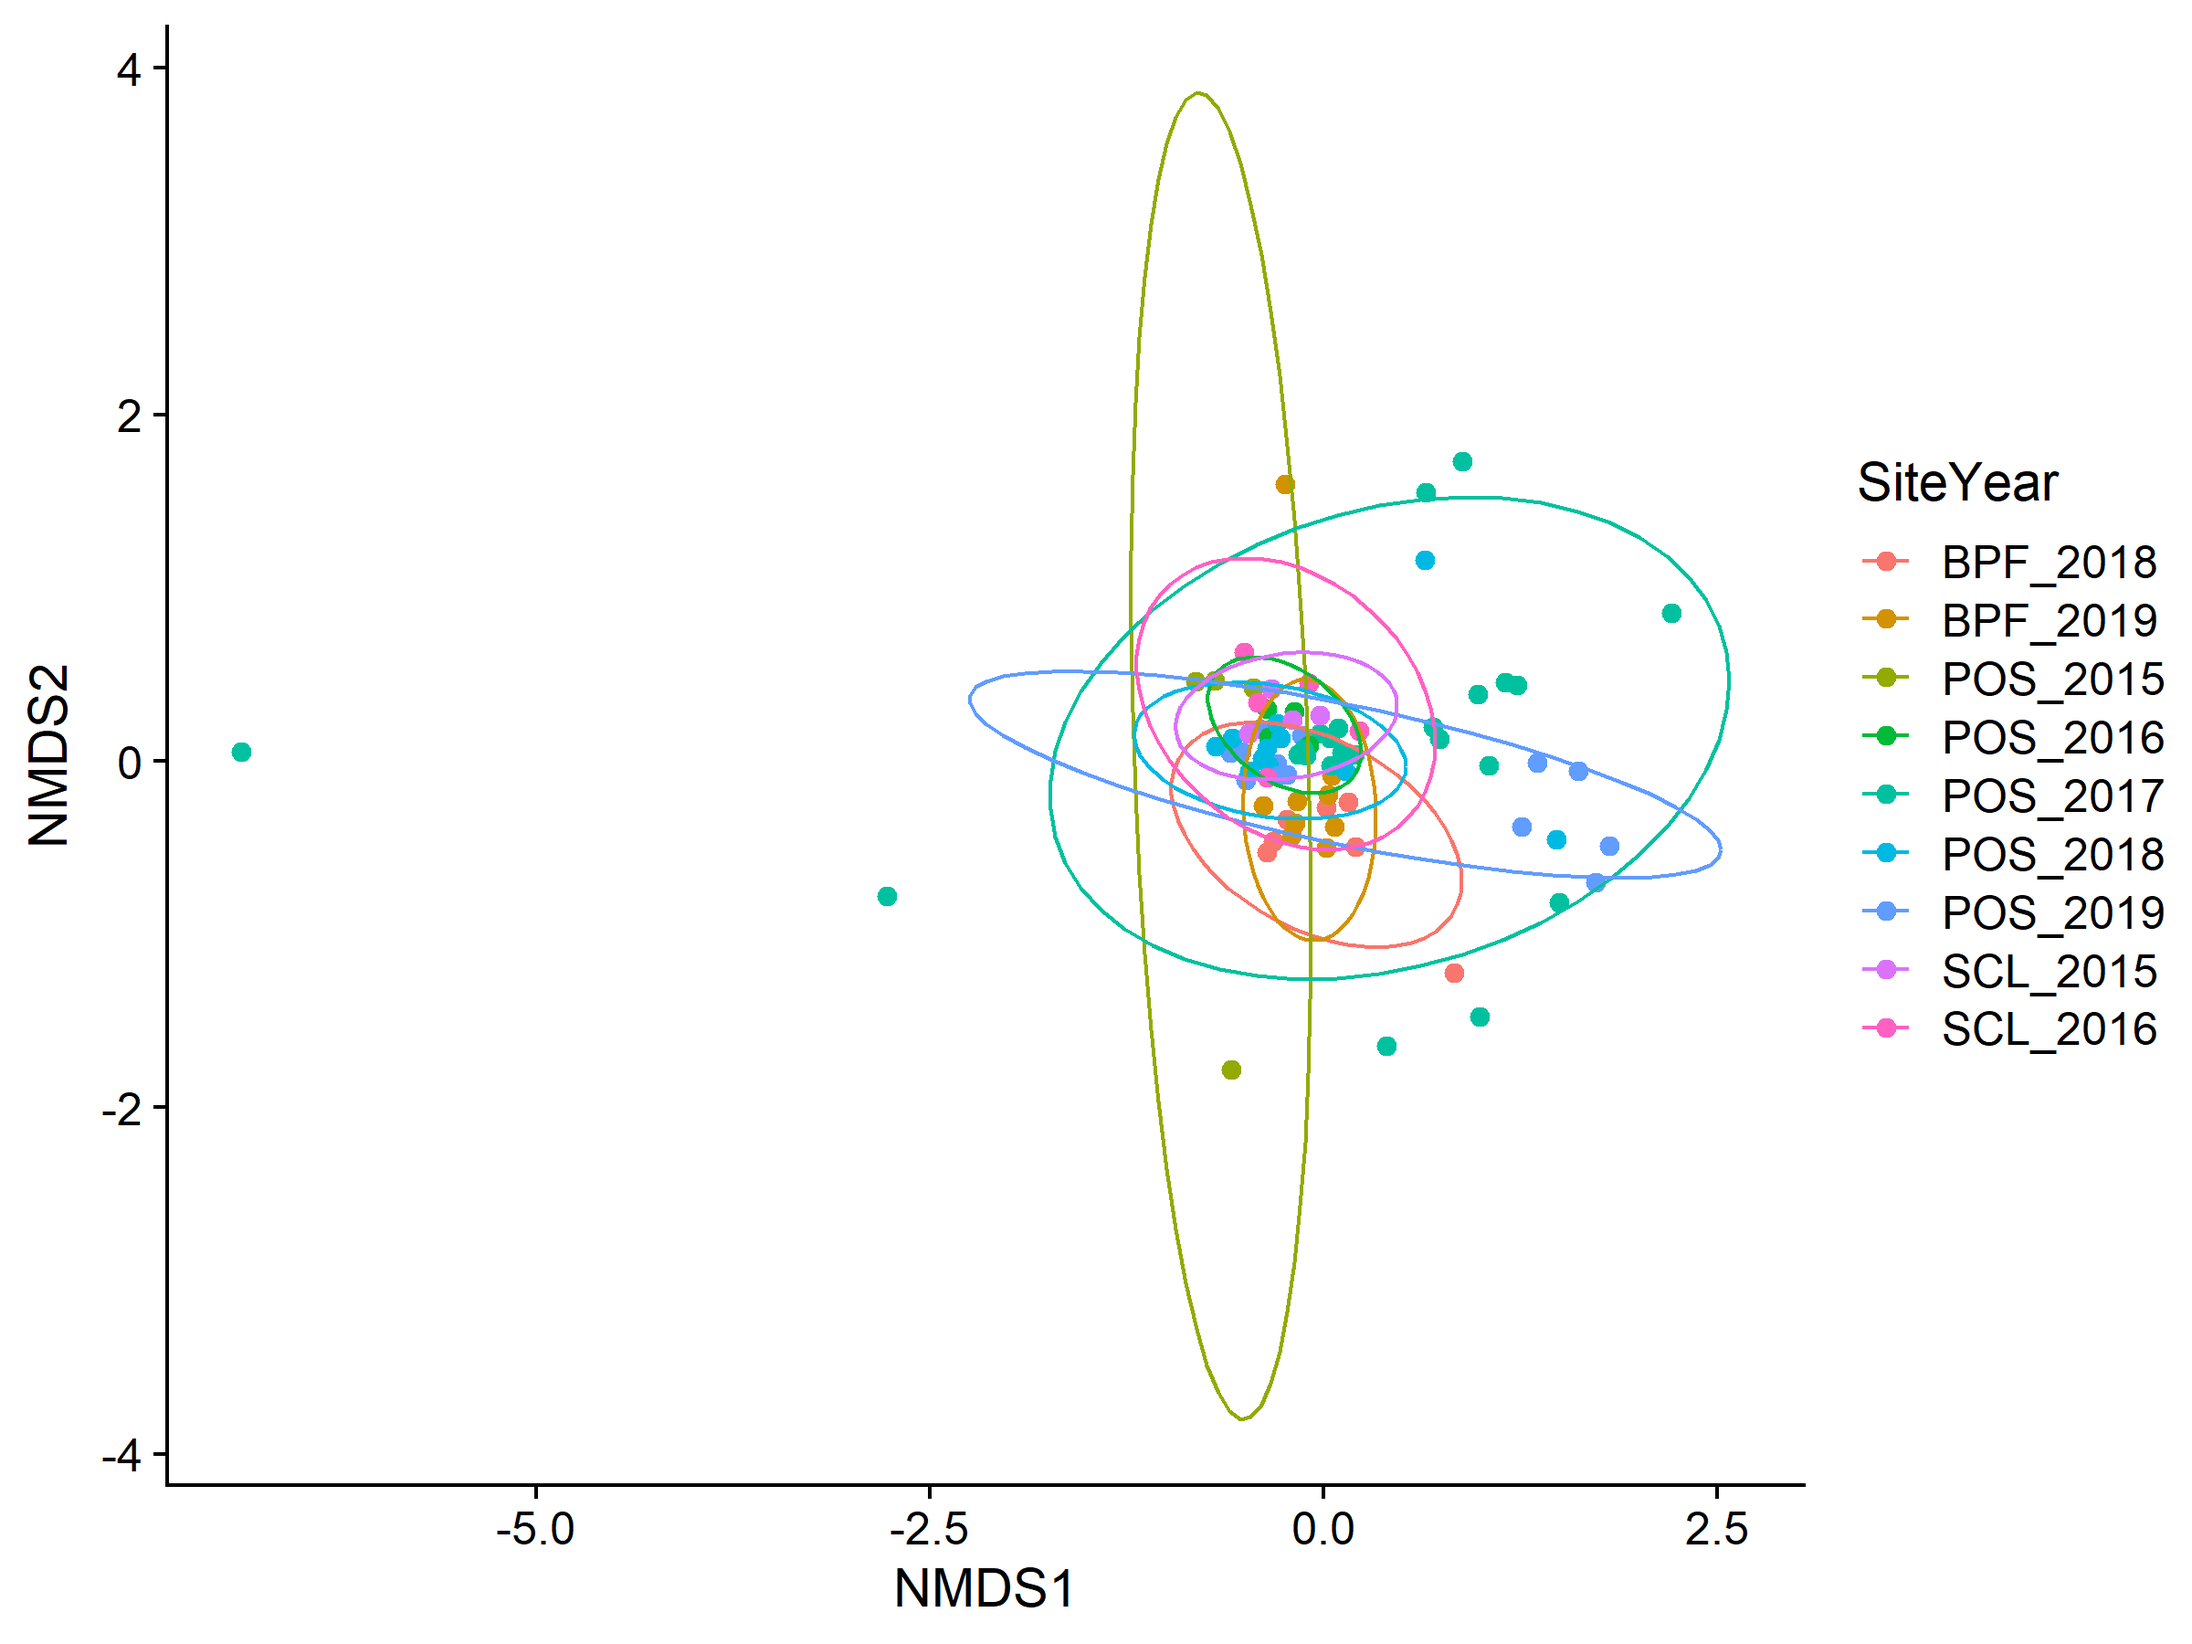
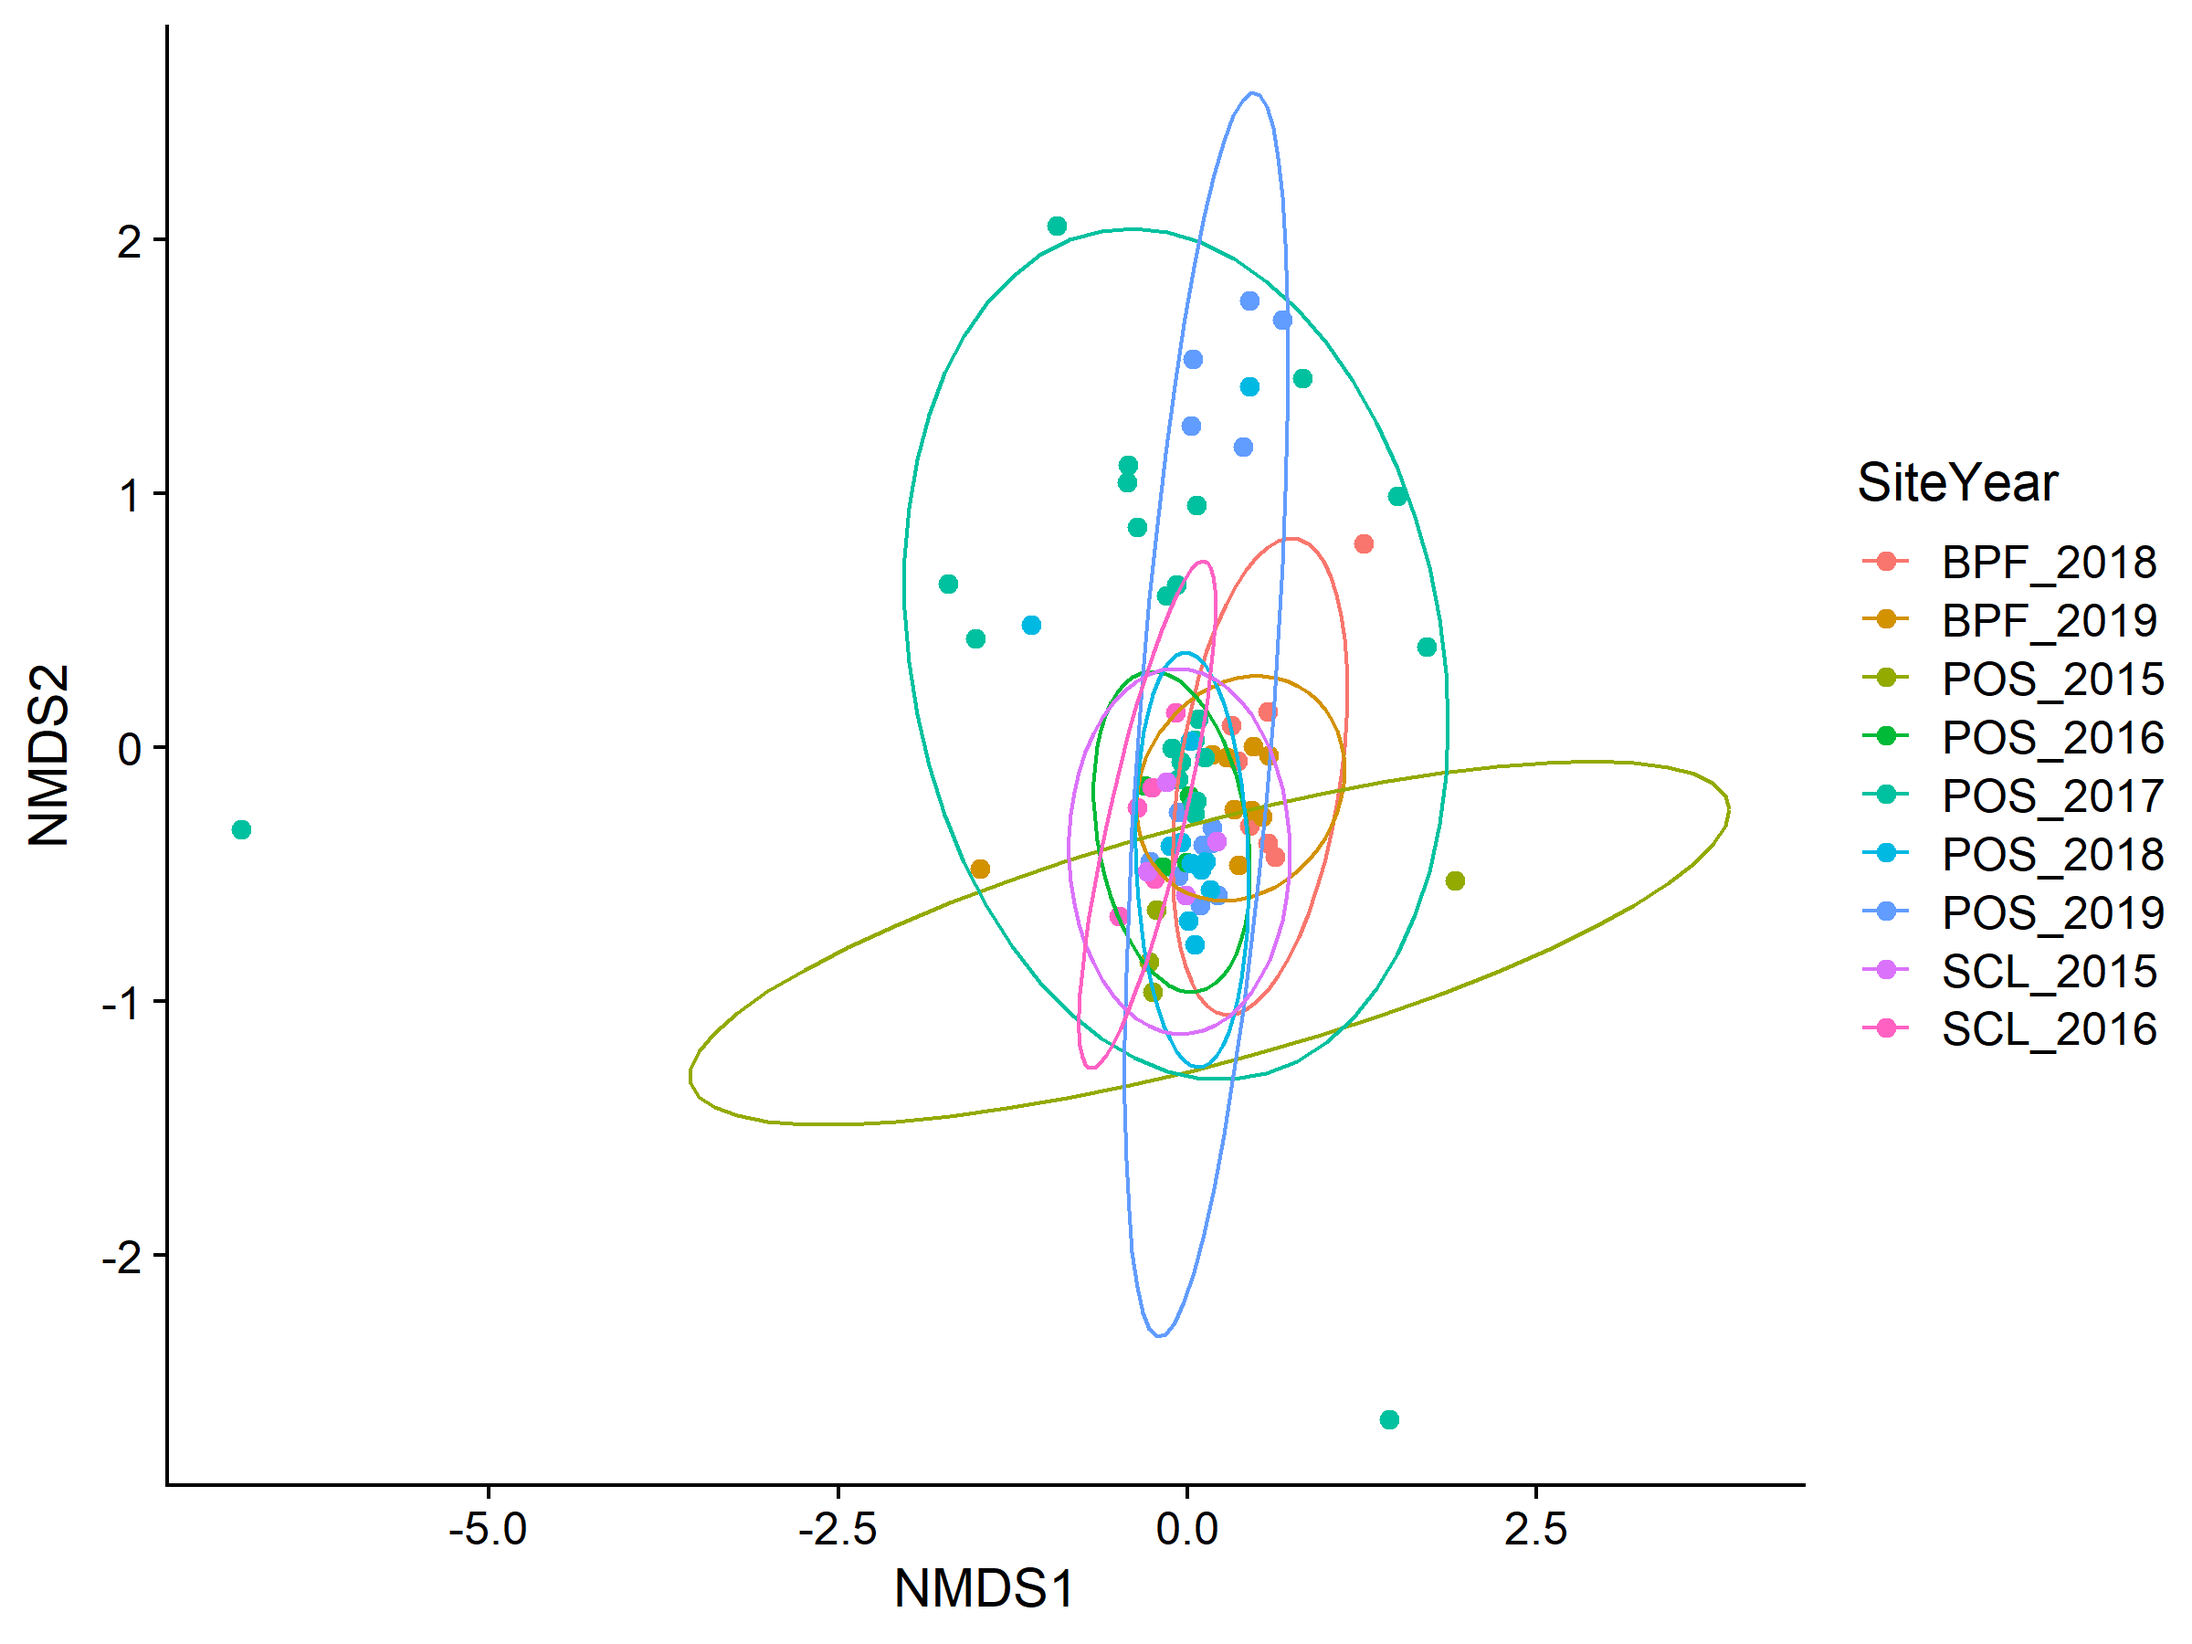
added Chao reference and equation

diff --git a/analyses/BeeSearch1.md b/analyses/BeeSearch1.md
@@ -1,7 +1,7 @@
 BeeSearch initial
 ================
 Dr. Riley M. Anderson
-July 15, 2024
+July 17, 2024
 
   
 
@@ -100,6 +100,12 @@ and 2020).
 | N                 | late  | SCL  |      0 |    2 |       Inf |
 
 # Chao indices
+
+From Anne Chao 1989:
+
+Chao1 minimum species richness is defined non-parametrically as:
+
+![S\_{est} = S\_{obs} + f\_{1}^{2}/(2f\_{2})](https://latex.codecogs.com/png.latex?S_%7Best%7D%20%3D%20S_%7Bobs%7D%20%2B%20f_%7B1%7D%5E%7B2%7D%2F%282f_%7B2%7D%29 "S_{est} = S_{obs} + f_{1}^{2}/(2f_{2})")
 
 - Chao indices by site
 
@@ -374,19 +380,6 @@ across years.
 
 # What bee groups drive changes in abundance from early to mid to late year?
 
-    ## Permutation test for adonis under reduced model
-    ## Terms added sequentially (first to last)
-    ## Permutation: free
-    ## Number of permutations: 999
-    ## 
-    ## adonis2(formula = site_matrix ~ Site + Year, data = site_meta, method = "bray")
-    ##          Df SumOfSqs      R2      F Pr(>F)    
-    ## Site      2   1.0216 0.04365 1.8410  0.008 ** 
-    ## Year      1   1.2940 0.05529 4.6636  0.001 ***
-    ## Residual 76  21.0878 0.90105                  
-    ## Total    79  23.4035 1.00000                  
-    ## ---
-    ## Signif. codes:  0 '***' 0.001 '**' 0.01 '*' 0.05 '.' 0.1 ' ' 1
     ## 
     ## Permutation test for homogeneity of multivariate dispersions
     ## Permutation: free
@@ -405,40 +398,38 @@ across years.
     ## 
     ## Response: Distances
     ##           Df Sum Sq  Mean Sq      F N.Perm Pr(>F)  
-    ## Groups     2 0.1789 0.089449 4.3768    999  0.018 *
+    ## Groups     2 0.1789 0.089449 4.3768    999  0.014 *
     ## Residuals 77 1.5736 0.020437                       
     ## ---
     ## Signif. codes:  0 '***' 0.001 '**' 0.01 '*' 0.05 '.' 0.1 ' ' 1
     ## Run 0 stress 0.1553111 
-    ## Run 1 stress 0.1510452 
+    ## Run 1 stress 0.1491082 
     ## ... New best solution
-    ## ... Procrustes: rmse 0.07413382  max resid 0.2395836 
-    ## Run 2 stress 0.1592268 
-    ## Run 3 stress 0.1614855 
-    ## Run 4 stress 0.1564014 
-    ## Run 5 stress 0.1569258 
-    ## Run 6 stress 0.1578329 
-    ## Run 7 stress 0.1480831 
+    ## ... Procrustes: rmse 0.0548472  max resid 0.2617651 
+    ## Run 2 stress 0.1526154 
+    ## Run 3 stress 0.1541713 
+    ## Run 4 stress 0.1615423 
+    ## Run 5 stress 0.1482265 
     ## ... New best solution
-    ## ... Procrustes: rmse 0.08366469  max resid 0.2758437 
-    ## Run 8 stress 0.149421 
-    ## Run 9 stress 0.1472032 
-    ## ... New best solution
-    ## ... Procrustes: rmse 0.06580304  max resid 0.442211 
-    ## Run 10 stress 0.1480685 
-    ## Run 11 stress 0.1524812 
-    ## Run 12 stress 0.1521472 
-    ## Run 13 stress 0.1543276 
-    ## Run 14 stress 0.1520092 
-    ## Run 15 stress 0.1518745 
-    ## Run 16 stress 0.1608472 
-    ## Run 17 stress 0.1599767 
-    ## Run 18 stress 0.1551282 
-    ## Run 19 stress 0.1528374 
-    ## Run 20 stress 0.1536999 
+    ## ... Procrustes: rmse 0.04203128  max resid 0.2637125 
+    ## Run 6 stress 0.1570778 
+    ## Run 7 stress 0.1603871 
+    ## Run 8 stress 0.1525049 
+    ## Run 9 stress 0.1491198 
+    ## Run 10 stress 0.1543386 
+    ## Run 11 stress 0.1544747 
+    ## Run 12 stress 0.1538242 
+    ## Run 13 stress 0.149399 
+    ## Run 14 stress 0.1590475 
+    ## Run 15 stress 0.1580025 
+    ## Run 16 stress 0.1581822 
+    ## Run 17 stress 0.1597297 
+    ## Run 18 stress 0.1539024 
+    ## Run 19 stress 0.1546031 
+    ## Run 20 stress 0.1500256 
     ## *** Best solution was not repeated -- monoMDS stopping criteria:
-    ##     17: no. of iterations >= maxit
-    ##      3: stress ratio > sratmax
+    ##     18: no. of iterations >= maxit
+    ##      2: stress ratio > sratmax
 
 ![](BeeSearch1_files/figure-gfm/nmds_all-1.png)<!-- -->
 
